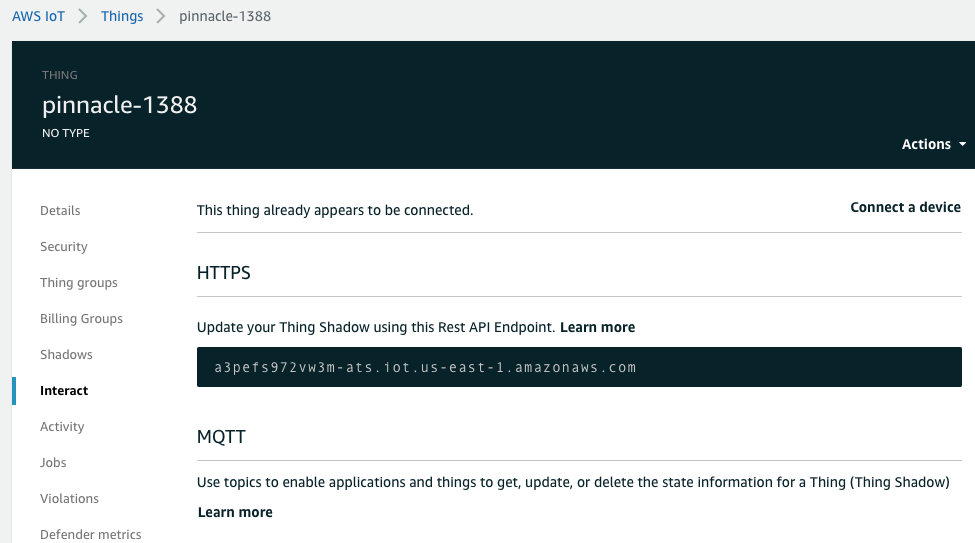
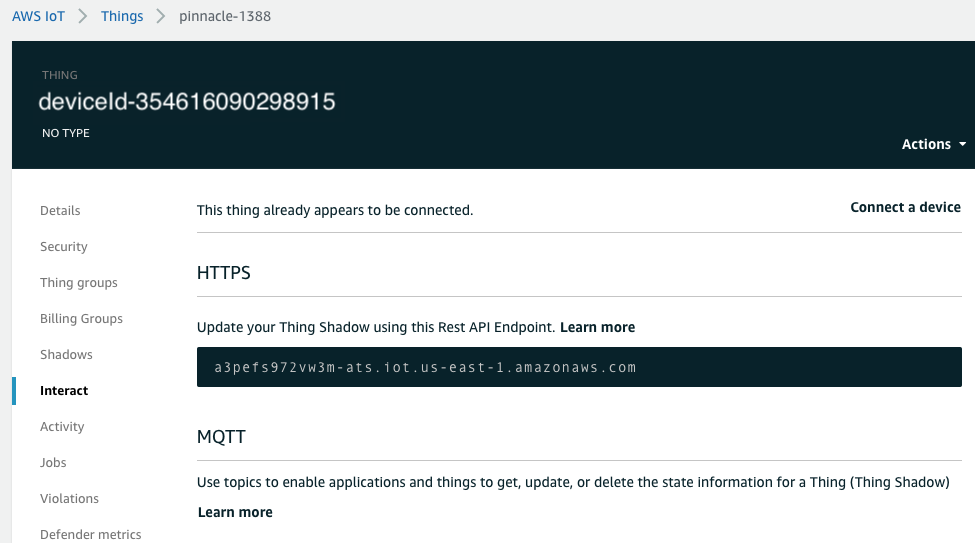
docs: AWS IoT
Tailor documentation to work with DVK and MG100.
Clarify thing name convention.

bug 17817

Changed region(s): [[0.0308, 0.1473, 0.3385, 0.2063]]

diff --git a/docs/aws_iot.md b/docs/aws_iot.md
@@ -8,19 +8,19 @@
    [Account Setup](#account-setup)  
    [Setup a Policy](#setup-a-policy)  
    [Create a Thing](#create-a-thing)  
-4. **[Configure MG100 for AWS Connection](#configure-mg100-for-aws-connection)**  
+4. **[Configure Device for AWS Connection](#configure-device-for-aws-connection)**  
    [Prerequisites](#prerequisites)  
-   [Provisioning the MG100 Via UART](#provisioning-the-mg100-via-uart)  
+   [Provisioning the Device Via UART](#provisioning-the-device-via-uart)  
    [Monitor AWS Messages](#monitor-aws-messages)  
 5. **[AWS Topics](aws_topics.md)**  
 
 ## Introduction
 
-The MG100 firmware connects to the Laird Connectivity Bluegrass cloud by default. This document will describe how to setup a new AWS IoT core server and reconfigure the firmware to connect to it.
+The AWS Out-of-Box (OOB) Demo firmware connects to the Laird Connectivity Bluegrass cloud by default. This document will describe how to setup a new AWS IoT core account and reconfigure the firmware to connect to it.
 
 ## Prerequisites
 
-* MG100 firmware 3.x or later
+* AWS OOB demo firmware 3.x or later
 
 ## AWS IoT Core Setup
 
@@ -60,6 +60,7 @@ In the left-hand menu, navigate to Manage -> Things and click Create on the far 
 Click Create a single thing.
 
 Enter a name and click Next.
+> **Note:** The OOB demo firmware expects the thing name to be in this format `deviceId-<IMEI>` where `<IMEI>` should be replaced by the IMEI of your device.
 
 ![Thing Name](images/aws/thing_name.png)  
 *Thing Name*
@@ -81,17 +82,17 @@ Select the policy that was created previously and click Register Thing.
 ![Attach Policy](images/aws/attach_policy.png)  
 *Attach Policy*
 
-## Configure MG100 for AWS Connection
+## Configure Device for AWS Connection
 
-The MG100 can be provisioned to communicate with the Bluegrass AWS demo site via the mobile app. In order to connect to an alternate AWS IoT Core instance, the MG100 can be provisioned via UART.
+The Pinnacle 100 device can be provisioned to communicate with the Bluegrass AWS demo site via the mobile app. In order to connect to an alternate AWS IoT Core instance, the device can be provisioned via UART.
 
 ### Prerequisites
 
 1. [mcumgr CLI](https://github.com/apache/mynewt-mcumgr#command-line-tool) (cross platform)
-2. MG100 running firmware part number 480-00070 v3.x or greater
+2. Pinnacle 100 device running AWS OOB demo firmware v3.x or greater
 3. Terminal program: Putty (Windows,Linux,macOS), Teraterm (Windows), Serial (macOS)
 
-### Provisioning the MG100 Via UART
+### Provisioning the Device Via UART
 1. Connect a terminal program to the console UART and turn off log messages. Log messages output by the firmware can interfere with the file transfer process.
 
     Issue command:
@@ -99,7 +100,7 @@ The MG100 can be provisioned to communicate with the Bluegrass AWS demo site via
     log halt
     ```
 
-2. Disconnect the terminal program from the console UART and transfer the credentials to the MG100 using the mcumgr CLI via the console UART. Three files need to be transfered to the MG100, the root CA, client certificate, and client key.
+2. Disconnect the terminal program from the console UART and transfer the credentials to the device using the mcumgr CLI via the console UART. Three files need to be transferred to the device, the root CA, client certificate, and client key.
 
     ```
     # Linux/macOS
@@ -124,7 +125,7 @@ The MG100 can be provisioned to communicate with the Bluegrass AWS demo site via
 
 4. Set AWS endpoint
 
-    To direct the MG100 which AWS instance to connect to, the endpoint must be set. To determine the correct endpoint login to the [AWS IoT console](https://console.aws.amazon.com/iot/) and click on the thing that was just registered. Go to the section labeled Interact and copy the endpoint listed under the HTTPS section.
+    To direct the Pinnacle 100 device which AWS instance to connect to, the endpoint must be set. To determine the correct endpoint login to the [AWS IoT console](https://console.aws.amazon.com/iot/) and click on the thing that was just registered. Go to the section labeled Interact and copy the endpoint listed under the HTTPS section.
 
     ![AWS Endpoint](images/aws/endpoint.png)  
     *AWS Endpoint*
